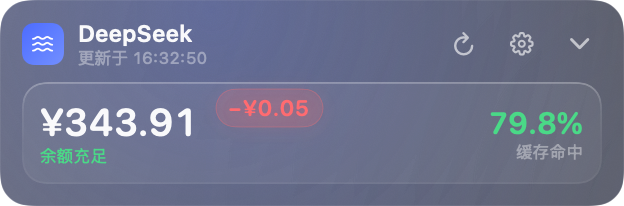
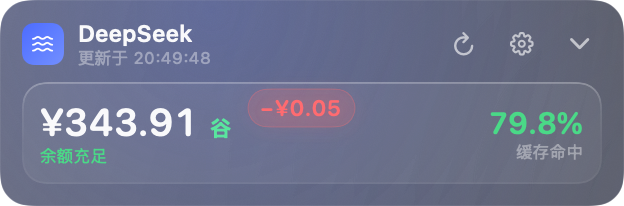
feat(收起态): 显示峰谷单字价签「峰」/「谷」
收起形态是常驻可见的那一面，之前只显示余额，看不出当时处在哪个价格档位。
新增余额右侧的单字标记：红「峰」= 高峰原价，绿「谷」= 空闲五折，
悬停可看切换倒计时。

- 新增 DS.peakTag / offPeakTag 两个语义色，没有直接复用 DS.peak：
  后者还兼作低余额告警色，把它改成红色会让告警态和价签撞色
- 展开态的「时段」小项也改用同一套颜色，避免同一概念两处不同色
- AppModel 增加仅供预览的 peakOverride，配合 --render --peak / --offpeak，
  否则同一时刻只能截到一种价签，没法做视觉验收

Changed region(s): [[0.3349, 0.4078, 0.5785, 0.6699], [0.2131, 0.233, 0.3349, 0.3204]]

diff --git a/Sources/Views/WidgetView.swift b/Sources/Views/WidgetView.swift
@@ -222,11 +222,14 @@ struct WidgetView: View {
         Card(padding: 9) {
             HStack(alignment: .center, spacing: 8) {
                 VStack(alignment: .leading, spacing: 0) {
-                    Text(model.balance.map { Fmt.moneyCompact($0.primary?.total ?? 0, currency: $0.primary?.currency ?? "CNY") } ?? "—")
-                        .font(.ds(19, .semibold, rounded: true))
-                        .foregroundStyle(DS.textPrimary)
-                        .contentTransition(.numericText())
-                        .animation(.snappy(duration: 0.45), value: model.balance?.primary?.total ?? 0)
+                    HStack(alignment: .firstTextBaseline, spacing: 5) {
+                        Text(model.balance.map { Fmt.moneyCompact($0.primary?.total ?? 0, currency: $0.primary?.currency ?? "CNY") } ?? "—")
+                            .font(.ds(19, .semibold, rounded: true))
+                            .foregroundStyle(DS.textPrimary)
+                            .contentTransition(.numericText())
+                            .animation(.snappy(duration: 0.45), value: model.balance?.primary?.total ?? 0)
+                        peakTag
+                    }
                     Text(model.statusLevel.label)
                         .font(.system(size: 8.5))
                         .foregroundStyle(model.statusLevel.color)
@@ -262,6 +265,23 @@ struct WidgetView: View {
                 }
             }
         }
+    }
+
+    /// 收起态的峰谷价签：红「峰」= 高峰原价，绿「谷」= 空闲五折。
+    ///
+    /// 收起形态才是常驻可见的那一面，所以价格档位必须一眼能读到——
+    /// 它直接决定「现在跑批划不划算」，比余额数字更有决策价值。
+    private var peakTag: some View {
+        let isPeak = model.isPeakNow
+        return Text(isPeak ? "峰" : "谷")
+            .font(.system(size: 11, weight: .bold))
+            .foregroundStyle(isPeak ? DS.peakTag : DS.offPeakTag)
+            .accessibilityLabel(isPeak ? "高峰时段" : "空闲时段")
+            .help(
+                isPeak
+                    ? "高峰时段：单价 ×1（北京时区 周一至周五 9:00–12:00、14:00–18:00）\n\(model.peakTransitionText)"
+                    : "空闲时段：单价 5 折（其余时段，含周末与法定节假日全天）\n\(model.peakTransitionText)"
+            )
     }
 
     // MARK: - 底栏

diff --git a/Sources/AppMain.swift b/Sources/AppMain.swift
@@ -38,7 +38,7 @@ struct DeepSeekFloatApp {
         }
 
         // 离屏渲染：把面板画成 PNG。不依赖「屏幕录制」权限，用于验收排版。
-        //   --render out.png [--settings] [--collapsed] [--empty] [--daily] [--bars] [--low]
+        //   --render out.png [--settings] [--collapsed] [--empty] [--daily] [--bars] [--low] [--peak|--offpeak]
         if let index = arguments.firstIndex(of: "--render") {
             let path = index + 1 < arguments.count ? arguments[index + 1] : "widget.png"
             renderSnapshot(
@@ -48,7 +48,9 @@ struct DeepSeekFloatApp {
                 empty: arguments.contains("--empty"),
                 daily: arguments.contains("--daily"),
                 bars: arguments.contains("--bars"),
-                low: arguments.contains("--low")
+                low: arguments.contains("--low"),
+                forcePeak: arguments.contains("--peak"),
+                forceOffPeak: arguments.contains("--offpeak")
             )
             exit(0)
         }
@@ -66,13 +68,16 @@ struct DeepSeekFloatApp {
     /// 注意：离屏渲染拿不到 `NSVisualEffectView` 的真实模糊，背景会退化成渐变，
     /// 但排版、字号、颜色、图表都是真实结果。
     @MainActor
-    private static func renderSnapshot(to path: String, settings: Bool, collapsed: Bool, empty: Bool, daily: Bool, bars: Bool, low: Bool) {
+    private static func renderSnapshot(to path: String, settings: Bool, collapsed: Bool, empty: Bool, daily: Bool, bars: Bool, low: Bool, forcePeak: Bool, forceOffPeak: Bool) {
         let model = AppModel(startAutomatically: false, withSampleData: !empty, sampleDaily: daily)
         model.showSettings = settings
         model.expanded = !collapsed
         if bars { model.chartMode = .bars }
         // 把余额压到阈值以下，用来验收低余额告警态（呼吸红边）
         if low { _ = model.simulateBalanceChange(-341.51) }
+        // 强制峰谷，用来在同一时刻把两种单字价签都截出来验收
+        if forcePeak { model.peakOverride = true }
+        if forceOffPeak { model.peakOverride = false }
         let renderer = ImageRenderer(
             content: WidgetView()
                 .environmentObject(model)

diff --git a/Sources/Theme.swift b/Sources/Theme.swift
@@ -19,6 +19,12 @@ enum DS {
     static let peak = Color(red: 1.00, green: 0.62, blue: 0.30)      // 高峰时段
     static let offPeak = Color(red: 0.38, green: 0.82, blue: 0.62)   // 空闲时段
 
+    /// 峰谷单字价签（收起态用）：红=高峰，绿=空闲。
+    /// 与上面的 peak/offPeak 分开，是因为那两个还兼作「低余额告警」等处的语义色，
+    /// 直接把 peak 改成红色会让告警态和价签撞色。
+    static let peakTag = Color(red: 1.00, green: 0.40, blue: 0.42)
+    static let offPeakTag = Color(red: 0.35, green: 0.90, blue: 0.62)
+
     static let textPrimary = Color.white.opacity(0.96)
     static let textSecondary = Color.white.opacity(0.62)
     static let textTertiary = Color.white.opacity(0.38)

diff --git a/Sources/Views/BalanceCard.swift b/Sources/Views/BalanceCard.swift
@@ -138,7 +138,9 @@ struct BalanceCard: View {
     /// 峰谷时段：官方口径见 PeakSchedule
     private var peakStat: some View {
         let isPeak = model.isPeakNow
-        let tint = isPeak ? DS.peak : DS.offPeak
+        // 与收起态的单字价签同一套颜色（红=峰 / 绿=谷），
+        // 否则同一概念两处不同色，会让人以为是两回事
+        let tint = isPeak ? DS.peakTag : DS.offPeakTag
         return VStack(alignment: .leading, spacing: 1) {
             Text("时段")
                 .font(.system(size: 9))

diff --git a/Sources/AppModel.swift b/Sources/AppModel.swift
@@ -429,7 +429,11 @@ final class AppModel: ObservableObject {
 
     // MARK: - 峰谷时段
 
-    var isPeakNow: Bool { PeakSchedule.isPeak() }
+    /// 仅预览/截图用：强制指定峰谷状态，nil 表示按真实时间判定。
+    /// 没有它就没法在同一个时间点把「峰」「谷」两种价签都截出来做验收。
+    var peakOverride: Bool?
+
+    var isPeakNow: Bool { peakOverride ?? PeakSchedule.isPeak() }
 
     /// 例：「1 小时 20 分后进入空闲时段」
     var peakTransitionText: String {

diff --git a/README.md b/README.md
@@ -95,6 +95,11 @@ cd DeepSeekFloat
 | ![设置](docs/screenshot-settings.png) | ![引导](docs/screenshot-onboarding.png) |
 
 - **余额卡**：大字余额 + 可用状态灯 + 充值/赠送拆分 + **峰时/闲时标识**（附切换倒计时）+ 所选时间范围的消耗 + 按当前速率估算的可用天数。
+- **收起态峰谷价签**：余额右侧一个单字标记——红 **峰** = 高峰原价，绿 **谷** = 空闲五折。收起形态是常驻可见的那一面，所以价格档位必须一眼能读到，它直接决定「现在跑批划不划算」。悬停可看切换倒计时。
+
+| 高峰时段 | 空闲时段 |
+|---|---|
+| ![峰](docs/tag-peak.png) | ![谷](docs/tag-offpeak.png) |
 - **缓存命中卡**：**双同心环**（外环命中率、内环输出占比）+ 命中/未命中/输出三段构成条 + 总 token + 请求次数 + 命中率分级徽章（≥90% 亮青绿加外发光）。
 - **用量趋势卡**：今日 / 24小时 / 7天 / 30天 / 本月 / 90天 切换，**柱状 / 热力双模式**。热力图会按拿到的数据粒度自适应——小时级数据渲染成 24 格小时热力条，天级数据渲染成「星期 × 周」贡献图（带星期轴与日期区间）。
 - **分模型卡**：每个模型的 token、费用，以及**每百万 token 平均费用**（从真实账单反推，跨模型可比）。
@@ -153,7 +158,7 @@ DSF_USER_TOKEN=xxx  $APP --selftest
 $APP --parsetest
 
 # 离屏渲染排版快照（不需要「屏幕录制」权限）
-$APP --render out.png [--settings] [--collapsed] [--empty] [--daily] [--bars]
+$APP --render out.png [--settings] [--collapsed] [--empty] [--daily] [--bars] [--low] [--peak|--offpeak]
 
 # 窗口几何探针（不需要额外权限）
 swift Tools/WindowProbe.swift DeepSeek
